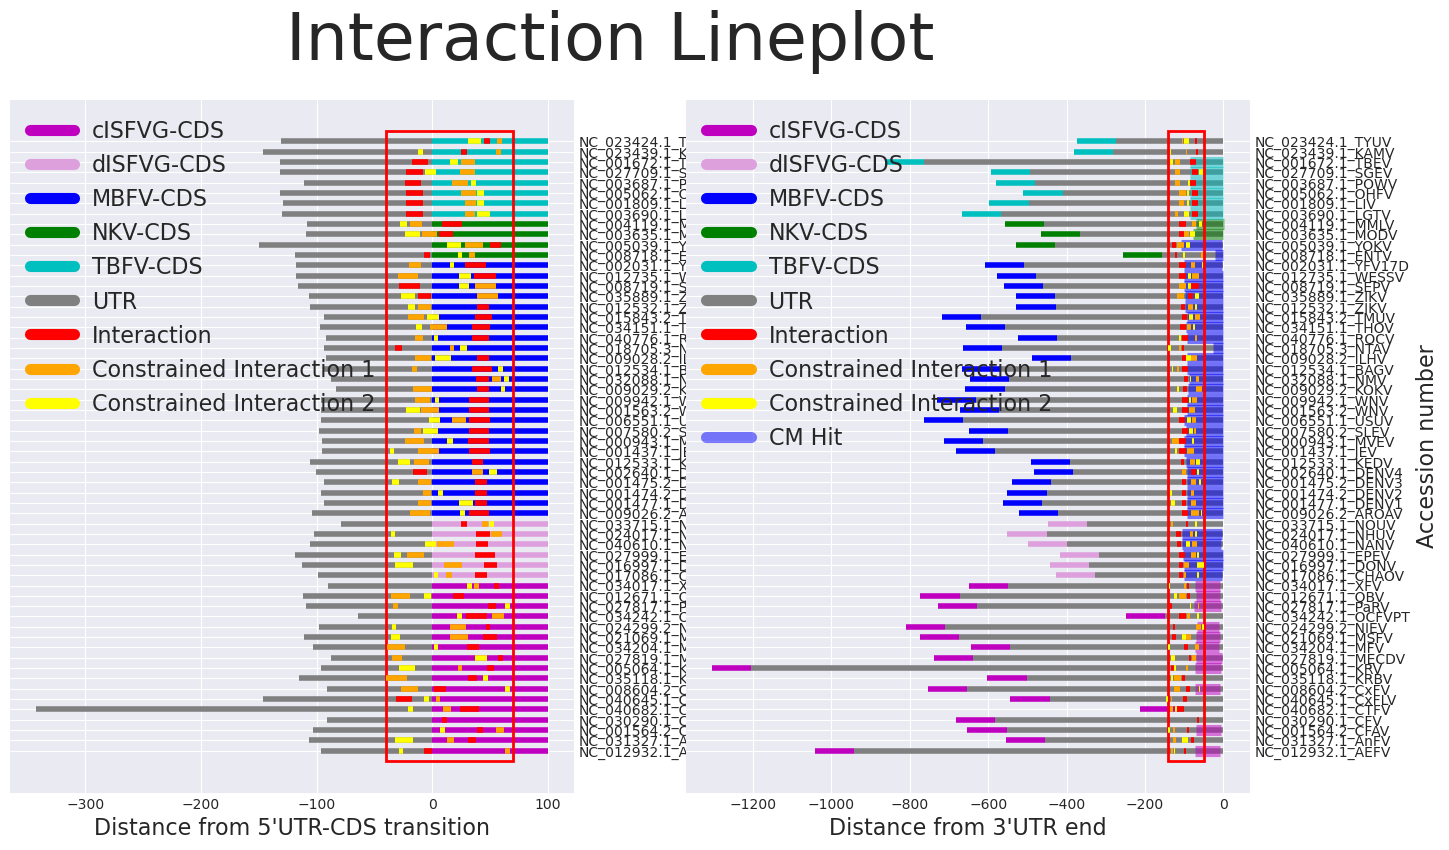
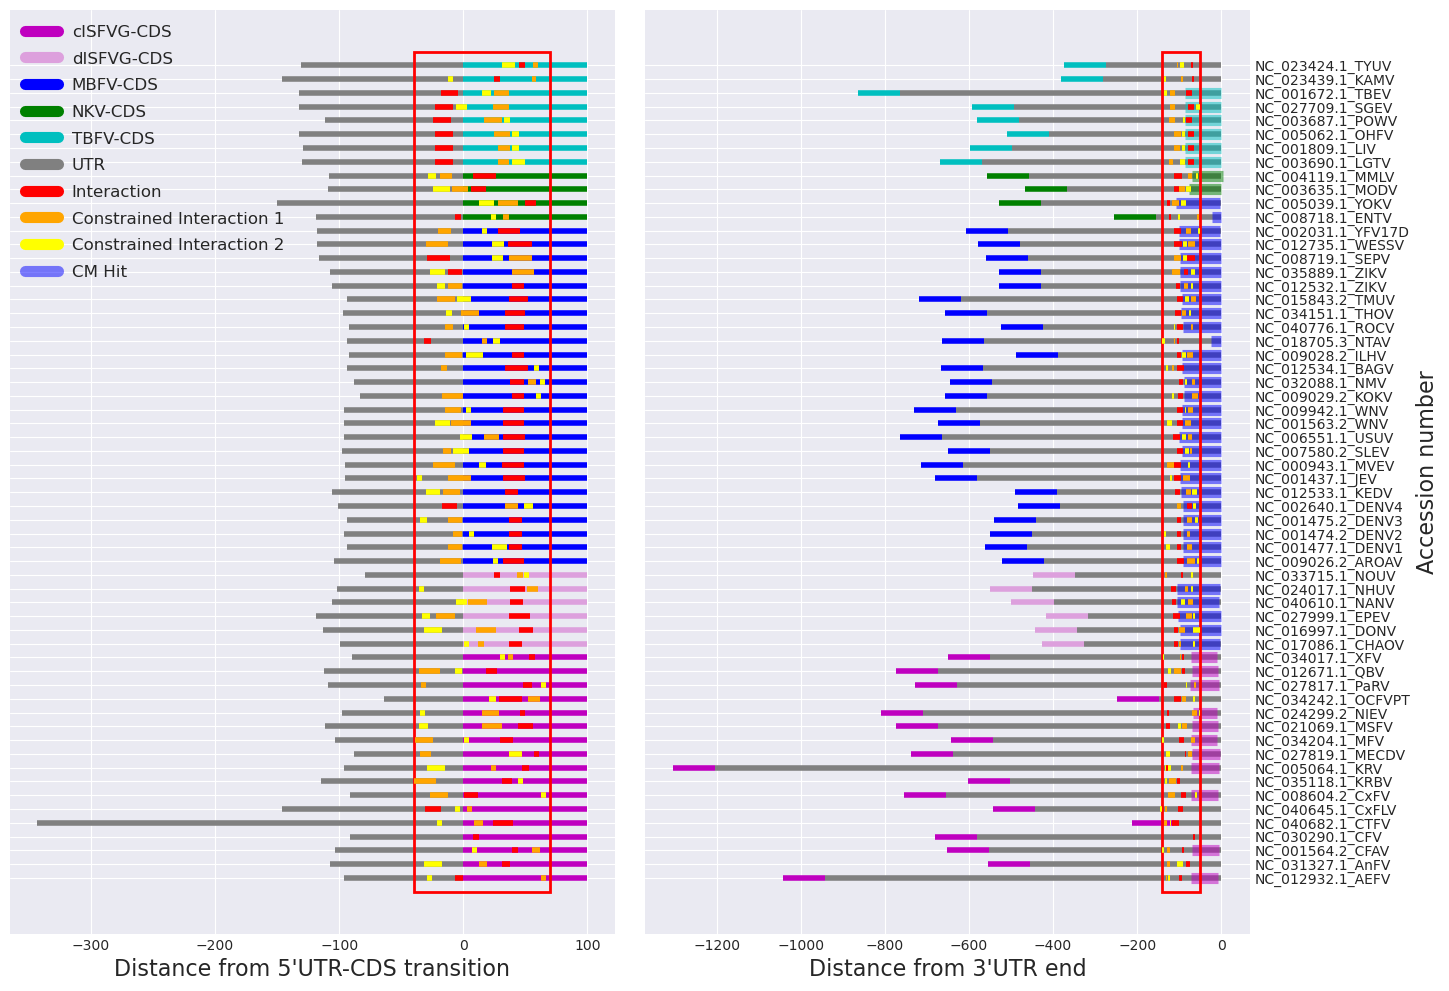
Lineplot changes to horizontal

diff --git a/Codes/evaluation.py b/Codes/evaluation.py
@@ -44,7 +44,7 @@ def draw_lineplots(df, extra_bases_roi, output, subopt_mode=False, draw_roi_box=
     no_cm_hits = False
     appeared_virus_types = {}
     plt.style.use("seaborn-v0_8-darkgrid")
-    fig, (side5, side3) = plt.subplots(1, 2, figsize=(16, 9)) # Formerly (24, 20)
+    fig, (side5, side3) = plt.subplots(1, 2, figsize=(16, 12)) # Formerly (24, 20)
 
     for index, row in df.iterrows():
         appeared_virus_types[row["type"] if row["class"] == "ISFV" else row["class"]] = 1
@@ -145,7 +145,7 @@ def draw_lineplots(df, extra_bases_roi, output, subopt_mode=False, draw_roi_box=
     ## Annotations:
     side5.set_xlabel("Distance from 5'UTR-CDS transition", fontsize=16)
     side3.set_xlabel("Distance from 3'UTR end", fontsize=16)
-    side5.set_ylabel("Accession number", fontsize=16)
+    #side5.set_ylabel("Accession number", fontsize=16)
     side3.set_ylabel("Accession number", fontsize=16)
     side5.yaxis.set_label_position("right")
     side5.yaxis.tick_right()
@@ -153,7 +153,7 @@ def draw_lineplots(df, extra_bases_roi, output, subopt_mode=False, draw_roi_box=
     side3.yaxis.tick_right()
 
     side5.set_yticks(np.arange(len(df["id"])))
-    side5.set_yticklabels(list(df["id"]+"_"+df["virus"]))
+    side5.set(yticklabels=[])
     side3.set_yticks(np.arange(len(df["id"])))
     side3.set_yticklabels(list(df["id"]+"_"+df["virus"]))
     side5.autoscale_view()
@@ -171,11 +171,13 @@ def draw_lineplots(df, extra_bases_roi, output, subopt_mode=False, draw_roi_box=
         legend_elements.append(Line2D([0], [0], color='yellow', lw=8, label='Constrained Interaction 2'))
     if meme_sites:
          legend_elements.append(Line2D([0], [0], color='r', alpha=0.3, lw=linewidths["MEME"], label='MEME Hit'))
-    side5.legend(handles=legend_elements,loc="upper left", prop={"size": 16})
+    #side5.legend(handles=legend_elements,loc="upper left", prop={"size": 16})
     if not no_cm_hits:
         legend_elements.append(Line2D([0], [0], color="blue", lw=8, label='CM Hit', alpha=0.5))
-    side3.legend(handles=legend_elements,loc="upper left", prop={"size": 16})
-    plt.suptitle("Interaction Lineplot", fontsize=48)
+    #side3.legend(handles=legend_elements,loc="upper left", prop={"size": 16})
+    side5.legend(handles=legend_elements,loc="upper left", labelspacing=0.7, prop={"size": 12})
+    #plt.suptitle("Interaction Lineplot", fontsize=48)
+    plt.subplots_adjust(wspace=0.05)
     plt.savefig(output, bbox_inches='tight')
     
     # Save plots separately too:

diff --git a/main.py b/main.py
@@ -12,20 +12,20 @@ import pandas as pd
 import os
 
 tasks = { # Note: You cannot run later tasks without running the earlier ones at least once.
-        "create_parameter_tables" : 0,
-        "run_IntaRNA"             : 0,
+        "create_parameter_tables" : 1,
+        "run_IntaRNA"             : 1,
         "CREATE_CMs"              : 0, ##!## Calibrating takes very long. Do not set to true unless new data.
-        "run_CM_search"           : 0,
+        "run_CM_search"           : 1,
         "draw_IntaRNA_plots"      : 1,
-        "MEME+GLAM2_prep"         : 0, ## Prepare files so they can be used for the MEME suite
-        "run_locARNA"             : 0,
-        "run_MRRI_1"              : 0, ## Restrictions like "run_IntaRNA"
-        "run_MRRI_2"              : 0, ## Further restrictions
-        "locARNA+MRRI"            : 0,
-        "locARNA+MRRI+CARNA"      : 0, ## Old version of locARNA that also uses CARNA
-        "MEME+GLAM2_lineplots"    : 0, ## Will not work until the sequences were run through the MEME Suite and the results saved in Results/MEME 
-        "draw_MRRI_plots"         : 0,
-        "CDS_to_proteins"         : 0,
+        "MEME+GLAM2_prep"         : 1, ## Prepare files so they can be used for the MEME suite
+        "run_locARNA"             : 1,
+        "run_MRRI_1"              : 1, ## Restrictions like "run_IntaRNA"
+        "run_MRRI_2"              : 1, ## Further restrictions
+        "locARNA+MRRI"            : 1,
+        "locARNA+MRRI+CARNA"      : 1, ## Old version of locARNA that also uses CARNA
+        "MEME+GLAM2_lineplots"    : 1, ## Will not work until the sequences were run through the MEME Suite and the results saved in Results/MEME 
+        "draw_MRRI_plots"         : 1,
+        "CDS_to_proteins"         : 1,
         }
 
 ## Input IntaRNA Paths:
